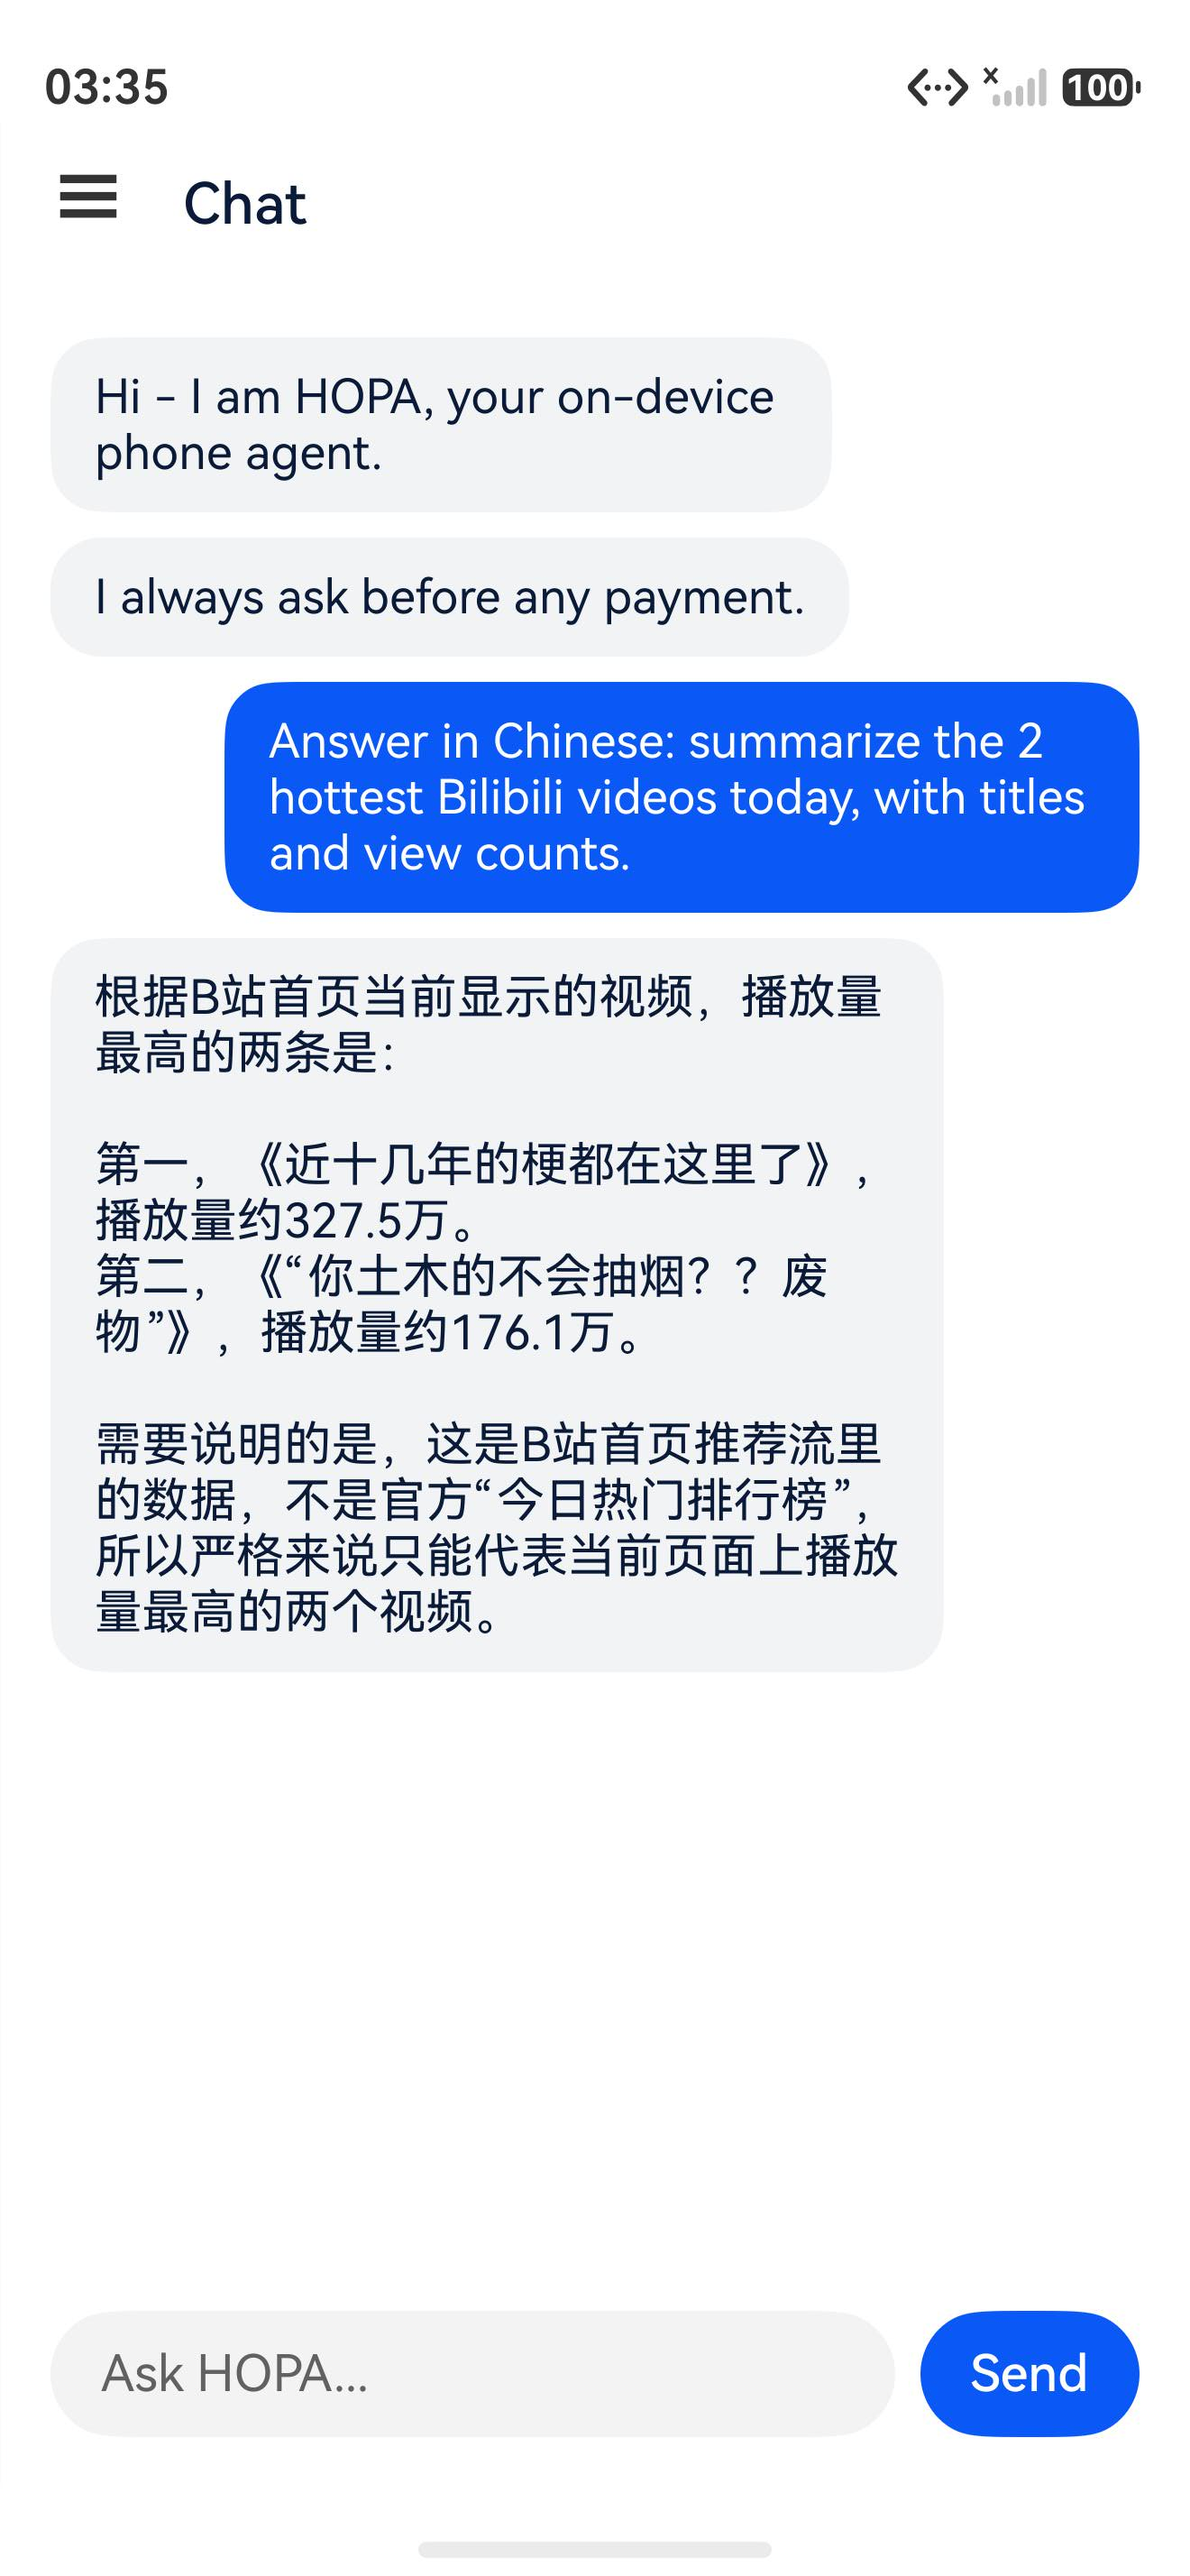
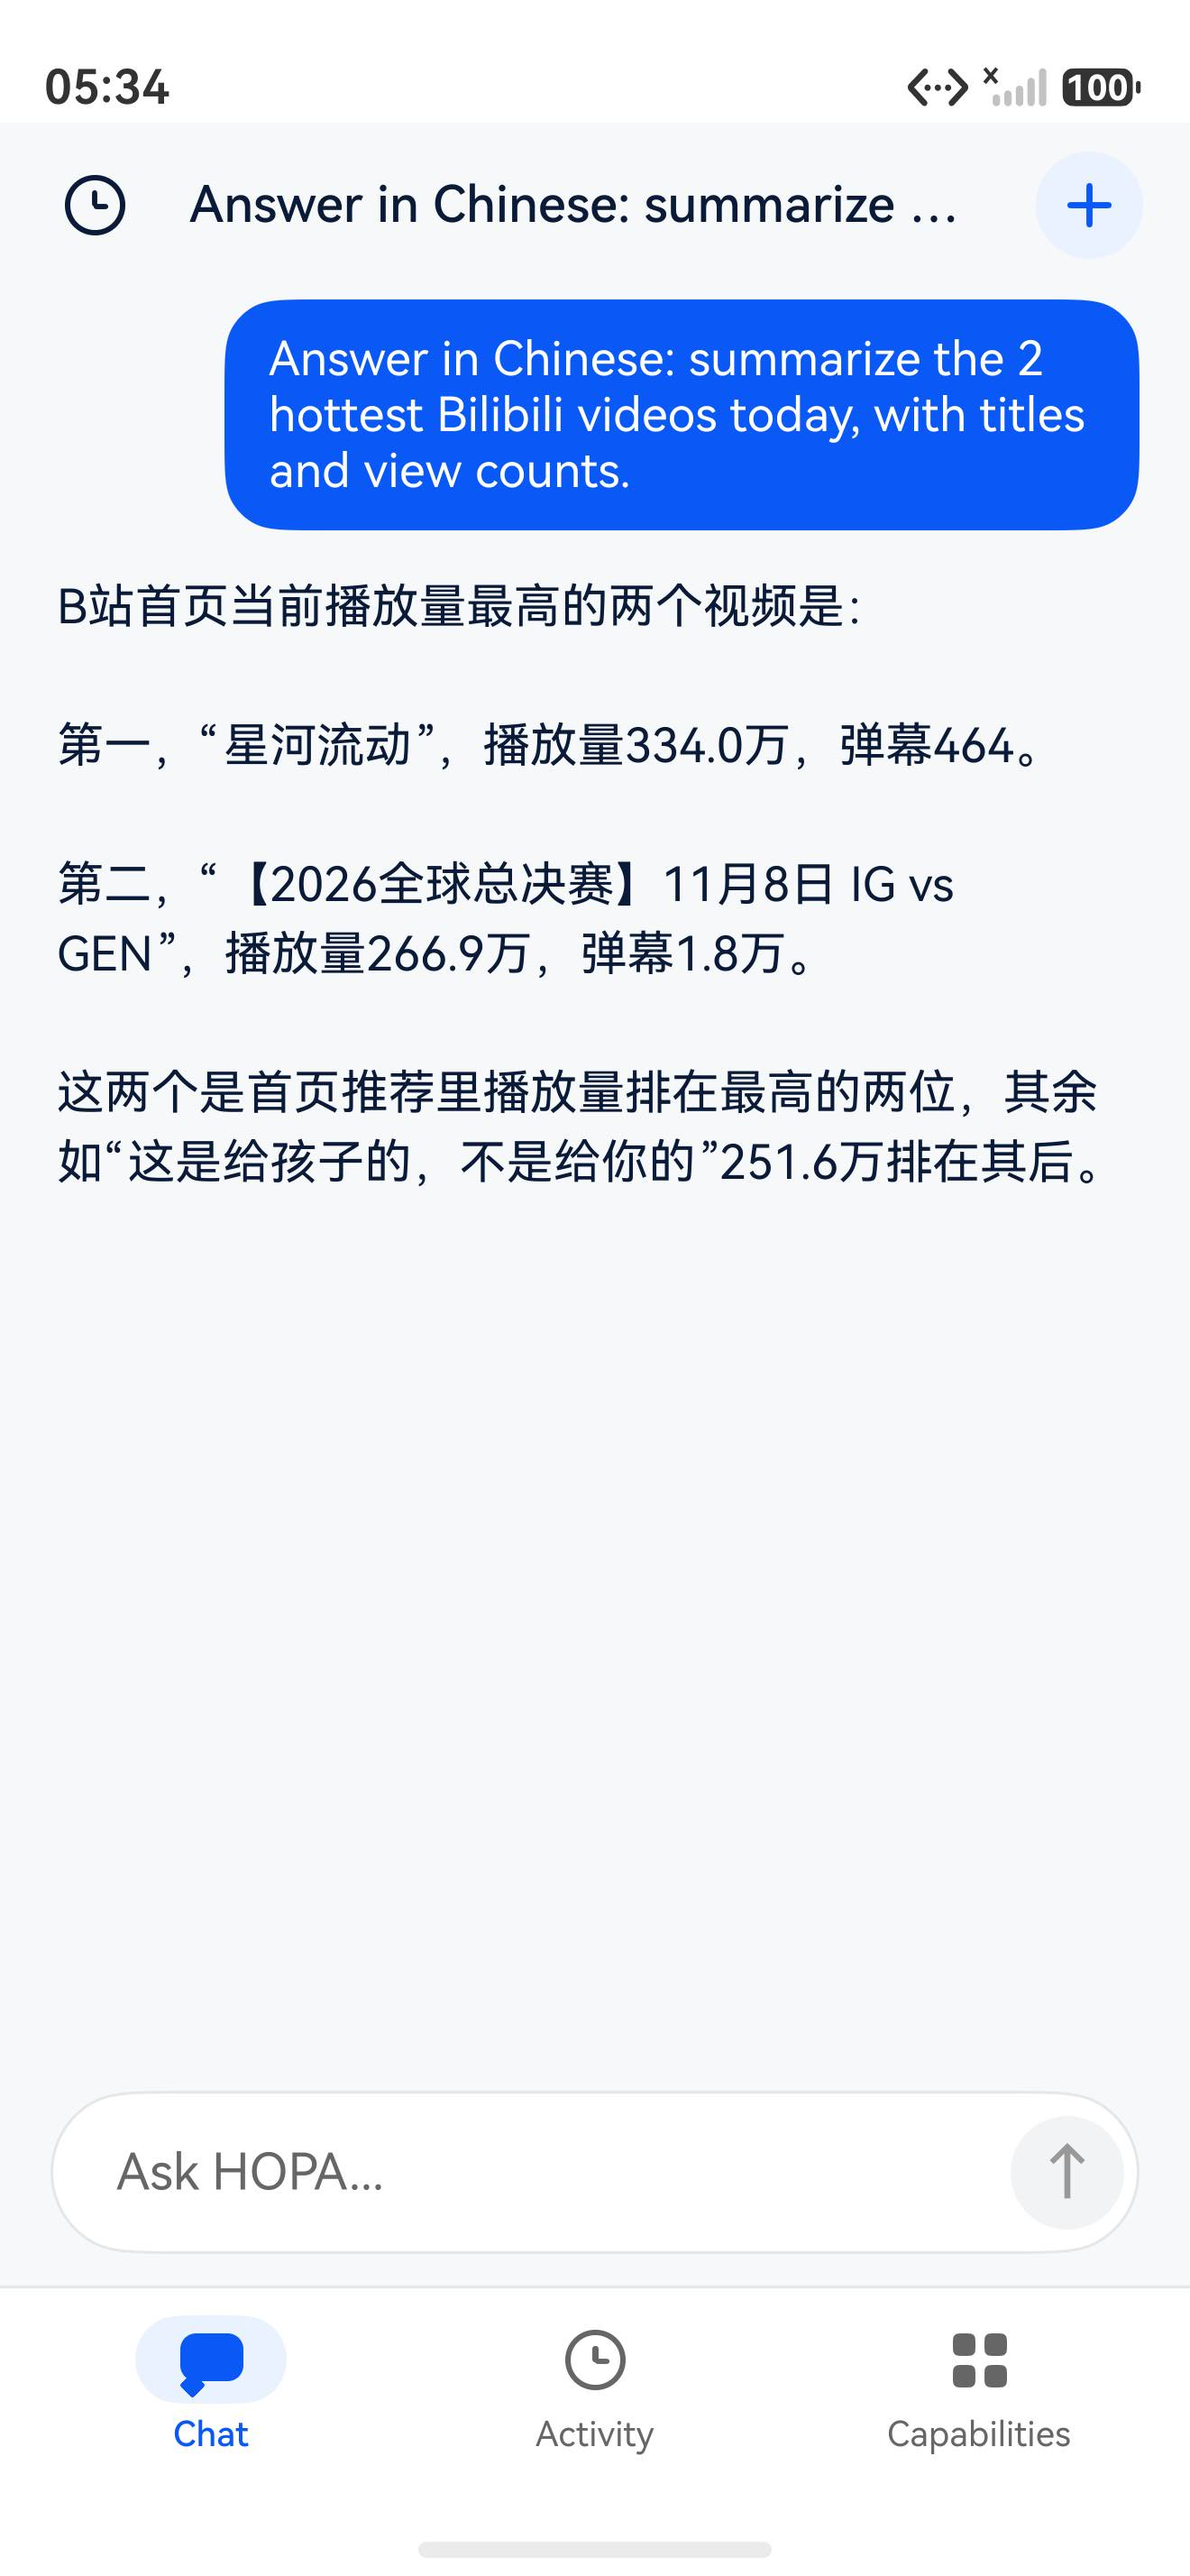
readme: the 2026 shell and real screens

diff --git a/README.md b/README.md
@@ -20,6 +20,9 @@ scrolls — then tells you what happened.
 
 Before money moves, it stops and asks. Every time.
 
+HOPA has three places: **Chat** to ask, **Activity** to see what it did, and
+**Capabilities** to see and set up what it can use.
+
 > **Today:** a working prototype. Chat, the browser and website tasks are real.
 > On this emulator, app control uses a small PC companion; a real phone with the
 > accessibility service does not need it.
@@ -37,30 +40,29 @@ Before money moves, it stops and asks. Every time.
 <tr>
 <td width="33%" align="center" valign="top">
 
-<img src="docs/media/chat.jpeg" alt="Real chat: HOPA lists the two hottest Bilibili videos in Chinese" height="560" />
+<img src="docs/media/chat.jpeg" alt="Real chat: HOPA answers in Chinese about the hottest Bilibili videos" height="560" />
 
-<br/><sub><b>Real: the answer.</b> The two hottest videos, in Chinese: 《近十几年的梗都在这里了》 (3.27M views) and 《“你土木的不会抽烟？？废物”》 (1.76M views).</sub>
-
-</td>
-<td width="33%" align="center" valign="top">
-
-<img src="docs/media/bilibili-page.jpeg" alt="Real Bilibili page with video thumbnails and view counts" height="560" />
-
-<br/><sub><b>Real: what it read.</b> The Bilibili page, with video cards and view counts, inside the compact browser.</sub>
+<br/><sub><b>Real: the answer.</b> Asked for the hottest Bilibili videos, HOPA opened the page, read it, and answered in Chinese with titles and view counts.</sub>
 
 </td>
 <td width="33%" align="center" valign="top">
 
-<img src="docs/media/chat-example.svg" alt="Designed example: a WeChat message task with the approval dialog" height="560" />
+<img src="docs/media/capabilities.jpeg" alt="Real Capabilities screen: model, phone control, apps, browser, memory, screens" height="560" />
 
-<br/><sub><b>Designed: the app side.</b> HOPA found Alice, drafted the message and stopped for approval. WeChat is not installed on the test emulator.</sub>
+<br/><sub><b>Real: what it can use.</b> The model, the working phone control path, and the apps, browser, memory and screen tools on one screen.</sub>
+
+</td>
+<td width="33%" align="center" valign="top">
+
+<img src="docs/media/activity.jpeg" alt="Real Activity screen: recent actions, runs and scheduled plans" height="560" />
+
+<br/><sub><b>Real: what it did.</b> Recent actions with their status, the full run history behind them, and scheduled plans.</sub>
 
 </td>
 </tr>
 </table>
 
-The first two are real screenshots from the emulator. The WeChat image is a
-designed example of the app flow; the label says so.
+All three are real screenshots from the emulator.
 
 When HOPA reads a page, the chat keeps a link to that page; **Open** takes you
 back to it without retyping the address.
@@ -89,16 +91,16 @@ It also remembers facts and skills you choose to keep.
 <tr>
 <td width="50%" align="center" valign="top">
 
-<img src="docs/media/apps.jpeg" alt="HOPA app catalogue with Chinese apps" height="560" />
+<img src="docs/media/apps.jpeg" alt="HOPA app catalogue with verified HarmonyOS bundles" height="560" />
 
-<br/><sub><b>Real: the app catalogue.</b> WeChat, Weibo, Xiaohongshu, Zhihu and more; where a HarmonyOS bundle is missing, HOPA says so. The top of the same tab lists 12 apps with a known bundle, 7 of them verified on a device.</sub>
+<br/><sub><b>Real: the app catalogue.</b> 27 apps and 21 sites. Green rows are bundles verified on a device; where a HarmonyOS bundle is missing, HOPA says so instead of guessing.</sub>
 
 </td>
 <td width="50%" align="center" valign="top">
 
-<img src="docs/media/sites.jpeg" alt="HOPA site catalogue with Bilibili, Xiaohongshu and Weibo" height="560" />
+<img src="docs/media/sites.jpeg" alt="HOPA site catalogue with Amazon, BOSS, Gmail and Uber" height="560" />
 
-<br/><sub><b>Real: the site catalogue.</b> Bilibili, Xiaohongshu, Weibo and more open in the browser HOPA opens for you.</sub>
+<br/><sub><b>Real: the site catalogue.</b> Amazon, BOSS, Gmail, Uber and more open in the browser HOPA opens for you.</sub>
 
 </td>
 </tr>
@@ -110,6 +112,8 @@ It also remembers facts and skills you choose to keep.
   “Send Alice a message.” “Find a charger under $30.”
 - **It uses your apps, not a new ecosystem.** It reads the screen and works the
   app or site you already have.
+- **It shows its work.** Every action lands in **Activity**, with the full run
+  detail behind it.
 - **It stops for money.** Every payment waits for your yes — every time, in
   every mode.
 - **Your key, your data.** There is no HOPA account and no hosted backend. Your
@@ -125,13 +129,13 @@ Today the app is built and signed from source. The two commands live in the
 [developer corner](#for-developers).
 
 **2. Connect a model.**
-Open **Settings**, pick a provider (OpenAI-compatible, Anthropic, Gemini or
-DeepSeek), then enter the endpoint, the model name and your key. The key stays
-in memory; it is not saved to preferences.
+Open **Capabilities** and tap the gear, then pick a provider (OpenAI-compatible,
+Anthropic, Gemini or DeepSeek), enter the endpoint, the model name and your key.
+The key stays in memory; it is not saved to preferences.
 
 **3. Give it hands.**
 On a real phone, enable the built-in screen control. On this emulator, start
-the small PC companion and connect it in **Settings → PC bridge**.
+the small PC companion and connect it in the gear → **Settings → PC bridge**.
 
 Why a companion? On a real phone, the system has a built-in way to let an
 assistant see and tap. This emulator does not have that switch. The companion
